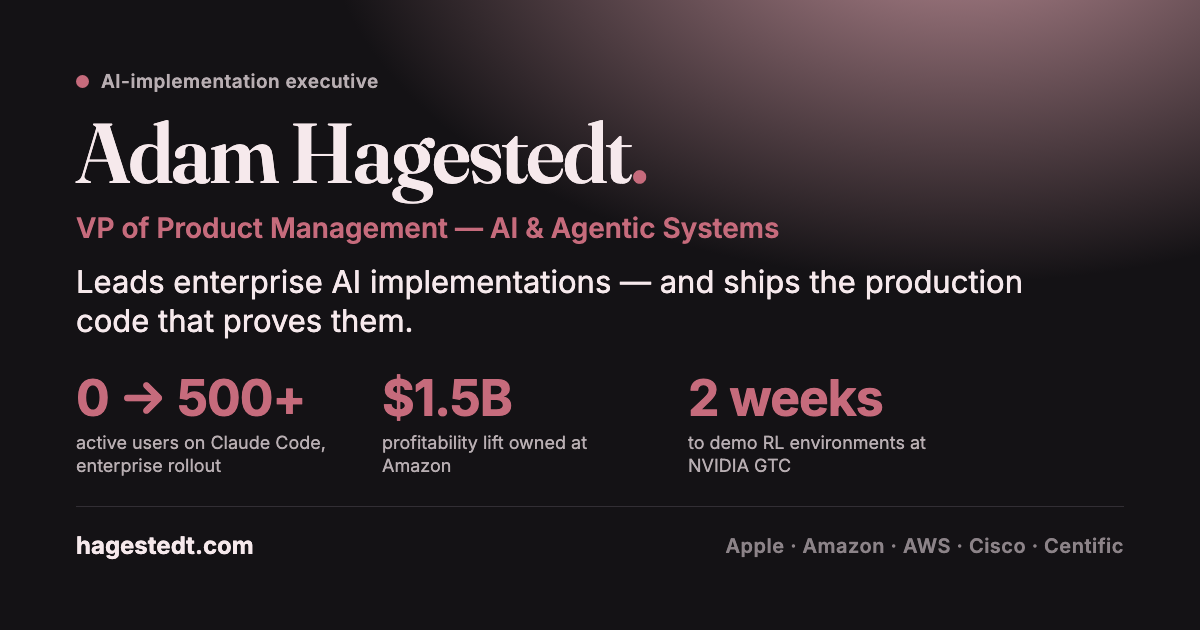
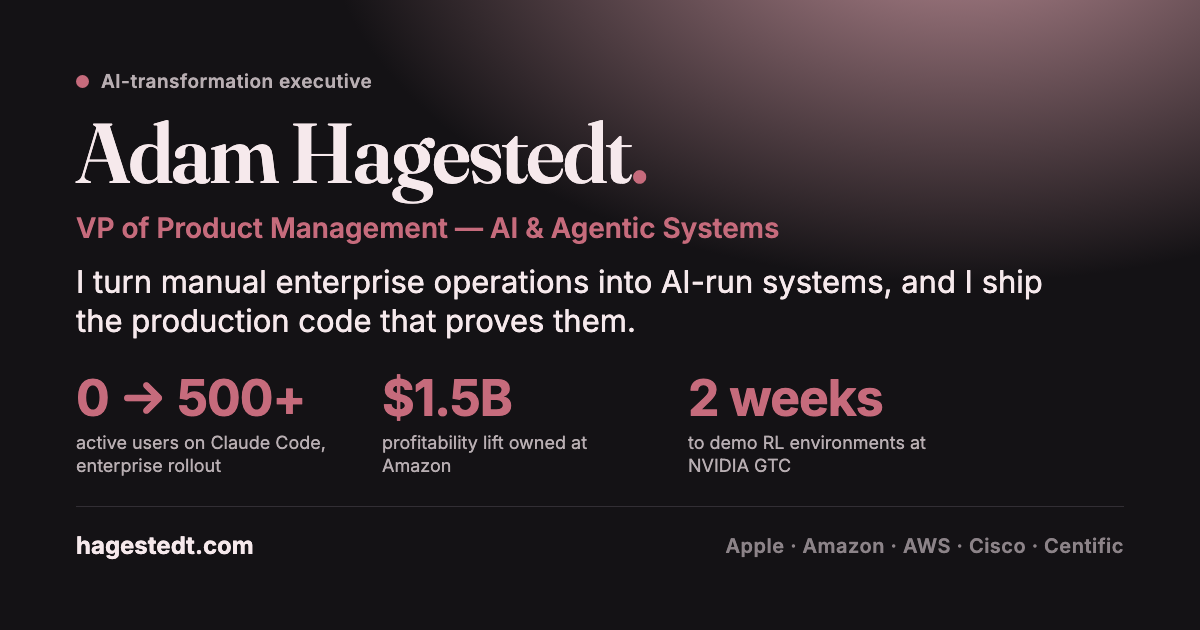
Re-sync from primary: og-card regen + 4th headline metric
- og-card.png/og-card.html: new AI-transformation eyebrow/hero line
- data.ts: 4th HEADLINE metric (13 -> 5 PM+SA headcount, zero backfill)
- Hero.tsx: metrics grid fixed for 4 cards (was hardcoded for 3)
- persona.ts: same headcount figures in the enterprise-automation competency

Changed region(s): [[0.0617, 0.4222, 0.8633, 0.5429], [0.0925, 0.1206, 0.3083, 0.1508]]

diff --git a/src/components/Hero.tsx b/src/components/Hero.tsx
@@ -34,7 +34,7 @@ export const Hero: React.FC<HeroProps> = ({ onContactClick }) => {
                 <Avatar size={88} />
             </div>
             {/* PRIMARY — built for a 6-second scan: who, what title, one-line value
-                prop, three proof metrics. Rendered statically (no entrance animation
+                prop, proof metrics. Rendered statically (no entrance animation
                 that hides text) so it is instantly legible to humans and present in
                 the prerendered HTML that crawlers / ATS / unfurlers read. */}
             <p className="text-sm font-semibold tracking-wide text-cream-400 mb-4">
@@ -50,8 +50,8 @@ export const Hero: React.FC<HeroProps> = ({ onContactClick }) => {
                 {HEADLINE.valueProp}
             </p>
 
-            {/* Three headline metrics */}
-            <div className="mt-10 grid grid-cols-1 sm:grid-cols-3 gap-4 max-w-3xl mx-auto text-left">
+            {/* Headline metrics — grid tracks HEADLINE.metrics.length; currently 4 */}
+            <div className="mt-10 grid grid-cols-1 sm:grid-cols-2 lg:grid-cols-4 gap-4 max-w-4xl mx-auto text-left">
                 {HEADLINE.metrics.map((m) => (
                     <div
                         key={m.label}

diff --git a/src/lib/persona.ts b/src/lib/persona.ts
@@ -118,8 +118,9 @@ US, India, China, Singapore, EU.
   operations into automated systems — algorithmic negotiation of 6,000+ vendors
   at Amazon ($1.5B lift), real-time AI on 100% of calls at AWS (vs. ~1% manual
   sampling), agent-run business operations at Centific (auto-generated status
-  reporting, a co-built Claude→Jira pipeline in daily production, a PM function
-  downsized via automation while products shipped went up).
+  reporting, a co-built Claude→Jira pipeline in daily production, two absorbed
+  VP portfolios downsized via automation with zero backfill — PM 6→2, Solution
+  Architecture 7→3 — while products shipped went up).
 * Ruthless prioritization: ships by killing scope (the $1M tool, the 21-week
   vendor path, the backfill).
 * AI organizational transition: adoption playbooks, enablement, observability.

diff --git a/scripts/og-card.html b/scripts/og-card.html
@@ -43,10 +43,10 @@
   </head>
   <body>
     <div>
-      <div class="eyebrow"><span class="dot"></span> AI-implementation executive</div>
+      <div class="eyebrow"><span class="dot"></span> AI-transformation executive</div>
       <h1>Adam Hagestedt<span class="p">.</span></h1>
       <div class="title">VP of Product Management &mdash; AI &amp; Agentic Systems</div>
-      <div class="prop">Leads enterprise AI implementations &mdash; and ships the production code that proves them.</div>
+      <div class="prop">I turn manual enterprise operations into AI-run systems, and I ship the production code that proves them.</div>
     </div>
 
     <div class="metrics">

diff --git a/src/data.ts b/src/data.ts
@@ -62,6 +62,11 @@ export const HEADLINE = {
             label: "to demo RL environments at NVIDIA GTC",
             context: "agent-powered, live human-in-the-loop demo, externally shown at GTC — now in active RFP with multiple Mag-7 customers",
         },
+        {
+            stat: "13 → 5",
+            label: "PM + Solution-Architecture headcount, zero backfill",
+            context: "absorbed two departing VPs' portfolios — PM 6→2, SA 7→3 — while products shipped increased",
+        },
     ],
     builtAt: ["Apple", "Amazon", "AWS", "Cisco", "Centific"],
 };
